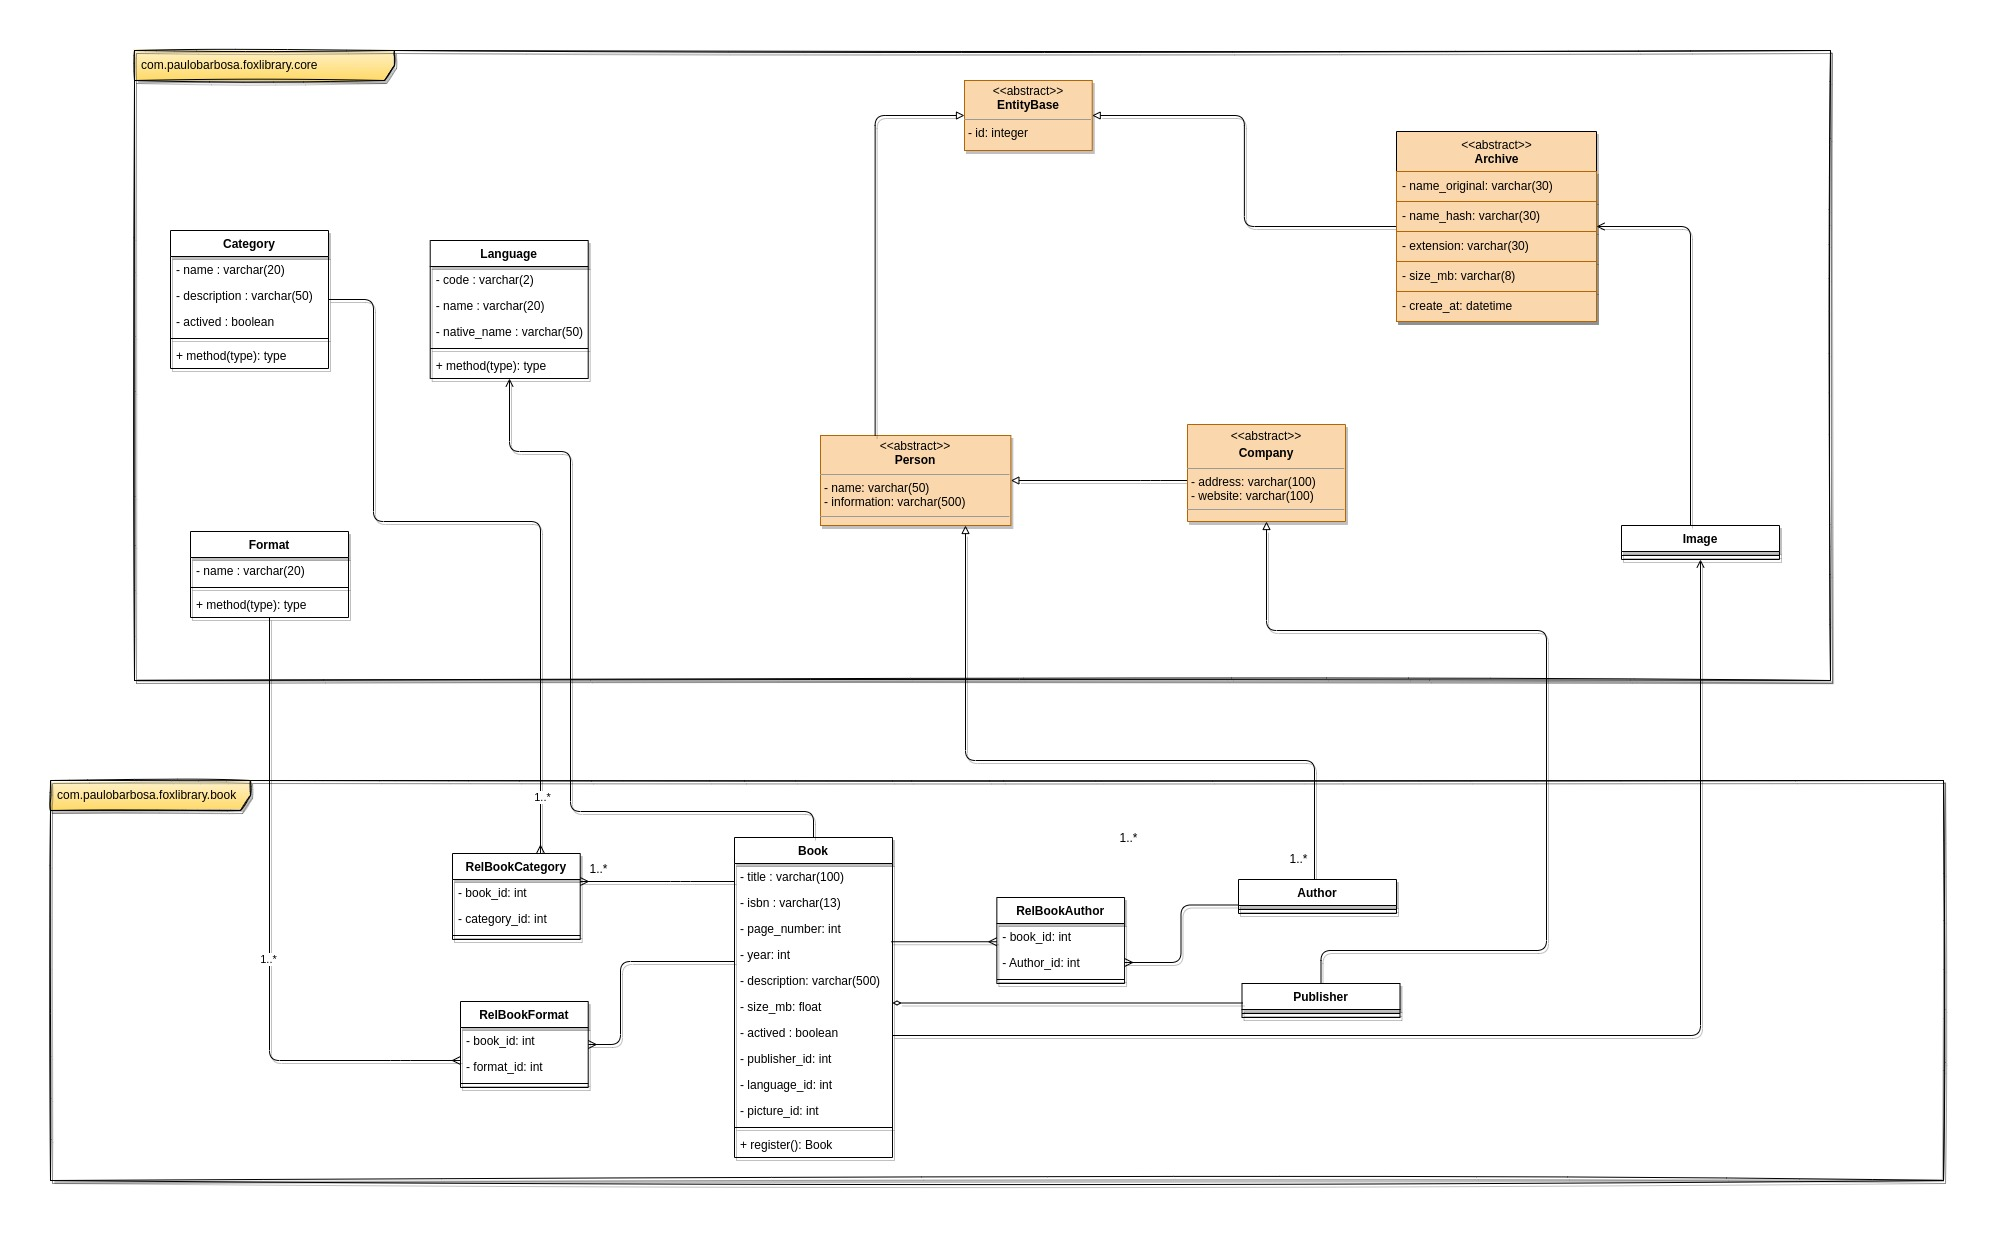
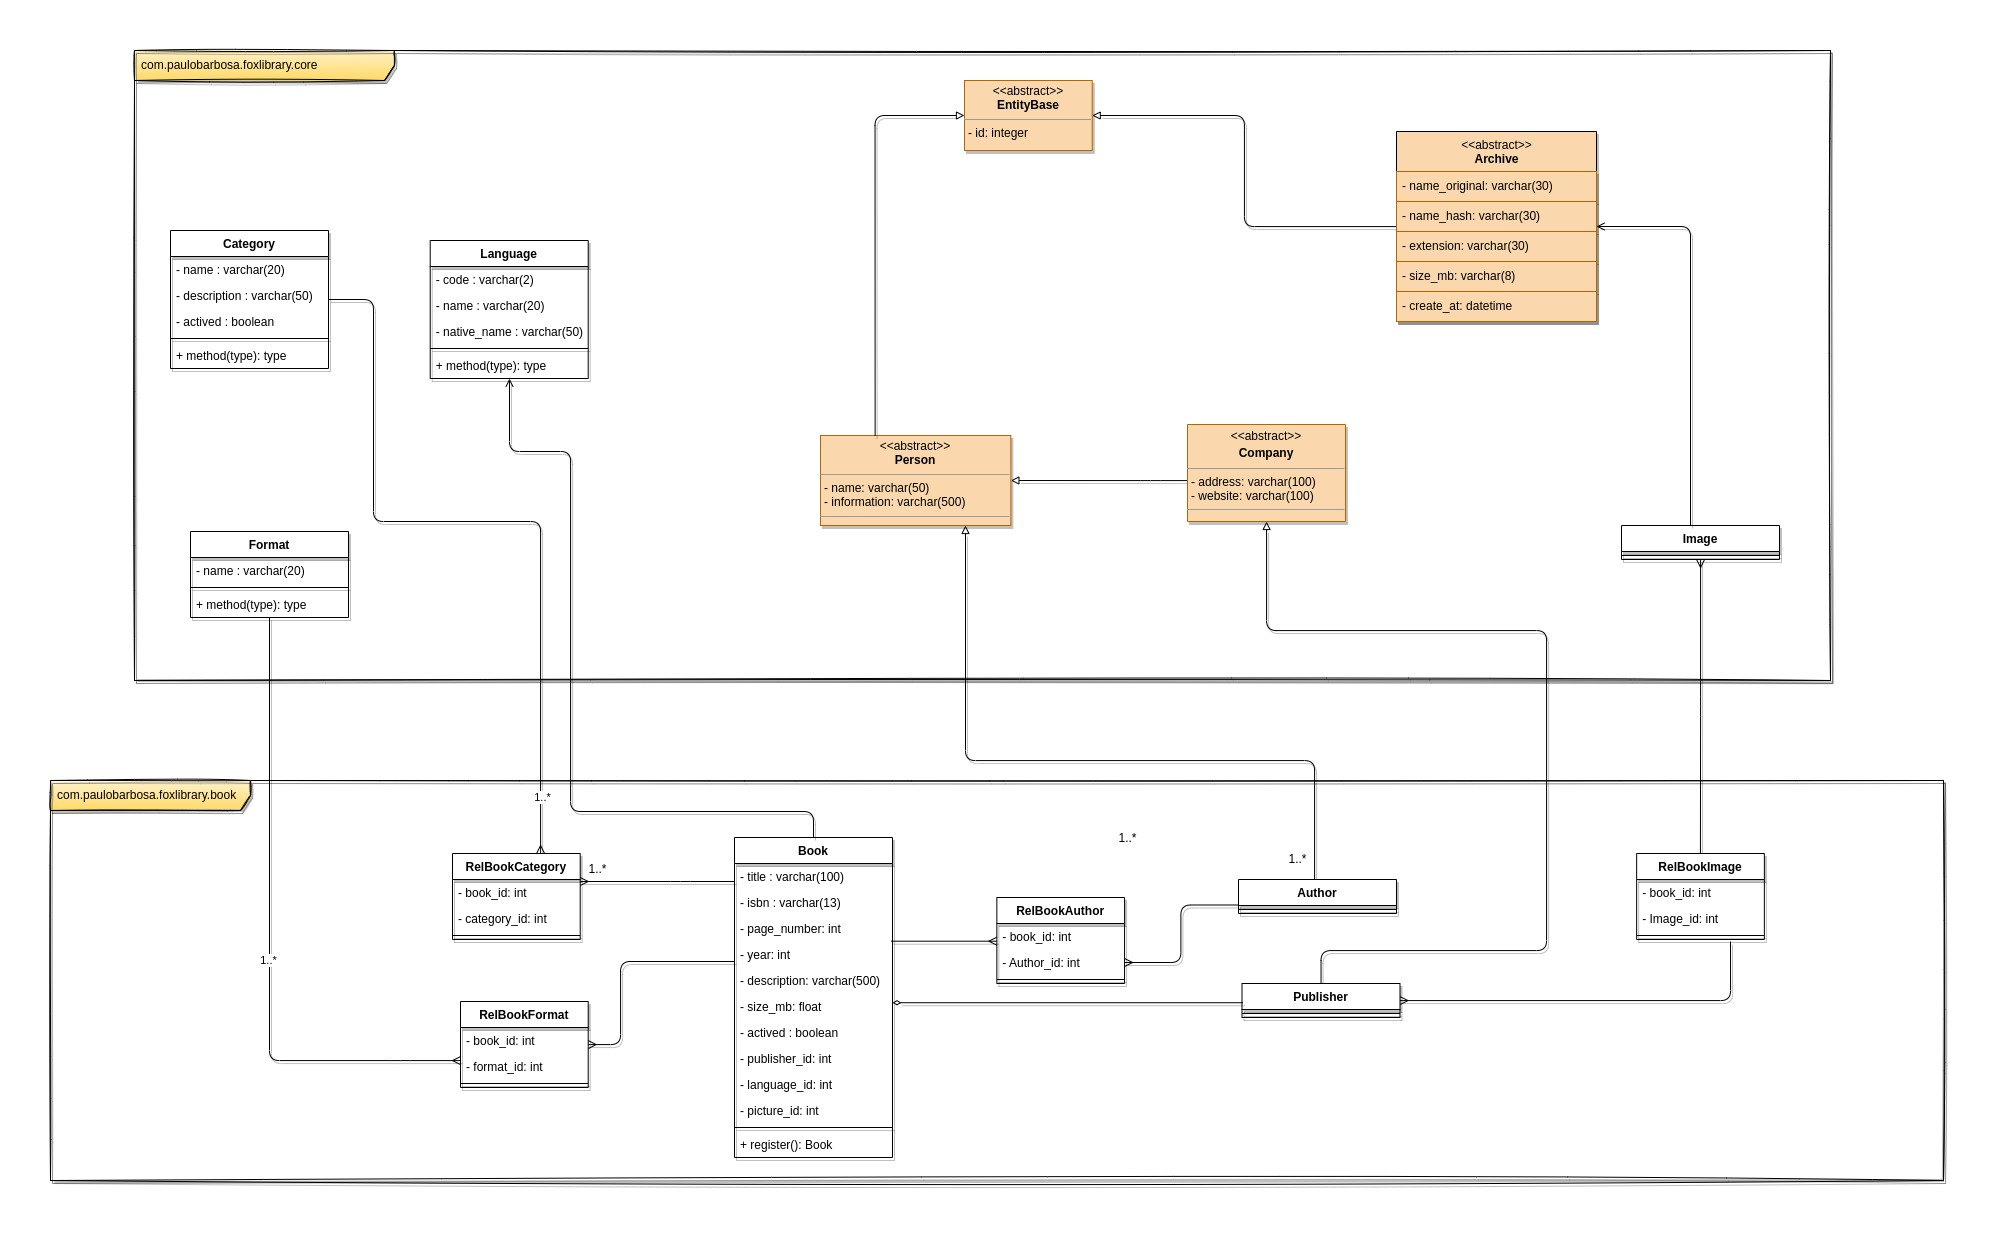
refactoring some tables

diff --git a/backend/src/main/java/com/paulobarbosa/foxlibrary/book/model/Book.java b/backend/src/main/java/com/paulobarbosa/foxlibrary/book/model/Book.java
@@ -8,6 +8,7 @@ import javax.persistence.*;
 import javax.validation.constraints.NotEmpty;
 import javax.validation.constraints.Size;
 import java.util.List;
+import java.util.Objects;
 
 @Entity
 @Getter
@@ -49,10 +50,8 @@ public class Book extends EntityBase {
     @JoinColumn(name = "language_id", referencedColumnName = "id", nullable = false, foreignKey = @ForeignKey(name = "fk_language"))
     private Language language;
 
-    @ManyToOne
-    @JoinColumn(name = "image_id",  referencedColumnName = "id", nullable = false, foreignKey = @ForeignKey(name = "fk_image"))
-    private Image image;
-
+     @OneToMany(mappedBy="book")
+     List<RelBookImage> images;
 
     @ManyToMany
     @JoinTable(
@@ -80,5 +79,15 @@ public class Book extends EntityBase {
     @ToString.Exclude
     private List<Category> categories;
 
+    @Override
+    public boolean equals(Object o) {
+        if (this == o) return true;
+        if (!(o instanceof Book book)) return false;
+        return Objects.equals(title, book.title) && Objects.equals(isbn, book.isbn) && Objects.equals(pageNumber, book.pageNumber) && Objects.equals(description, book.description) && Objects.equals(sizeMb, book.sizeMb) && Objects.equals(active, book.active) && Objects.equals(publisher, book.publisher) && Objects.equals(language, book.language) && Objects.equals(images, book.images) && Objects.equals(authors, book.authors) && Objects.equals(formats, book.formats) && Objects.equals(categories, book.categories);
+    }
 
+    @Override
+    public int hashCode() {
+        return getClass().hashCode();
+    }
 }

diff --git a/backend/src/main/java/com/paulobarbosa/foxlibrary/book/model/RelBookImage.java b/backend/src/main/java/com/paulobarbosa/foxlibrary/book/model/RelBookImage.java
@@ -1,0 +1,45 @@
+package com.paulobarbosa.foxlibrary.book.model;
+
+import com.paulobarbosa.foxlibrary.book.model.compositekey.BookImageKey;
+import com.paulobarbosa.foxlibrary.shared.model.Image;
+import lombok.*;
+
+import javax.persistence.*;
+import java.util.Objects;
+
+@Entity
+@Getter
+@Setter
+@Builder
+@ToString
+@AllArgsConstructor
+@NoArgsConstructor
+@Table(name = "rel_books_images")
+public class RelBookImage {
+    @EmbeddedId
+    BookImageKey id;
+    @MapsId("bookId")
+    @ManyToOne
+    @JoinColumn(name = "book_id")
+    private Book book;
+
+    @MapsId("imageId")
+    @ManyToOne
+    @JoinColumn(name = "image_id")
+    private Image image;
+
+    @Column(name = "is_principal", columnDefinition = "boolean default false")
+    private Boolean isPrincipal = false;
+
+    @Override
+    public boolean equals(Object o) {
+        if (this == o) return true;
+        if (!(o instanceof RelBookImage that)) return false;
+        return Objects.equals(id, that.id) && Objects.equals(book, that.book) && Objects.equals(image, that.image) && Objects.equals(isPrincipal, that.isPrincipal);
+    }
+
+  @Override
+    public int hashCode() {
+        return getClass().hashCode();
+    }
+}

diff --git a/backend/src/main/java/com/paulobarbosa/foxlibrary/book/model/compositekey/BookImageKey.java b/backend/src/main/java/com/paulobarbosa/foxlibrary/book/model/compositekey/BookImageKey.java
@@ -1,0 +1,26 @@
+package com.paulobarbosa.foxlibrary.book.model.compositekey;
+
+import javax.persistence.Column;
+import javax.persistence.Embeddable;
+import java.io.Serializable;
+import java.util.Objects;
+
+@Embeddable
+public class BookImageKey implements Serializable {
+    @Column(name = "book_id")
+   private Long bookId;
+    @Column(name = "image_id")
+    private Long imageId;
+
+    @Override
+    public boolean equals(Object o) {
+        if (this == o) return true;
+        if (!(o instanceof BookImageKey that)) return false;
+        return Objects.equals(bookId, that.bookId) && Objects.equals(imageId, that.imageId);
+    }
+
+    @Override
+    public int hashCode() {
+        return Objects.hash(bookId, imageId);
+    }
+}

diff --git a/backend/src/main/java/com/paulobarbosa/foxlibrary/book/model/Publisher.java b/backend/src/main/java/com/paulobarbosa/foxlibrary/book/model/Publisher.java
@@ -7,6 +7,7 @@ import javax.persistence.Entity;
 import javax.persistence.OneToMany;
 import javax.persistence.Table;
 import java.util.List;
+import java.util.Objects;
 
 
 @Entity
@@ -21,4 +22,17 @@ public class Publisher extends Company {
     @OneToMany(mappedBy = "publisher")
     @ToString.Exclude
     private List<Book> books;
+
+    @Override
+    public boolean equals(Object o) {
+        if (this == o) return true;
+        if (!(o instanceof Publisher publisher)) return false;
+        if (!super.equals(o)) return false;
+        return Objects.equals(books, publisher.books);
+    }
+
+    @Override
+    public int hashCode() {
+        return getClass().hashCode();
+    }
 }

diff --git a/backend/src/main/java/com/paulobarbosa/foxlibrary/shared/model/Image.java b/backend/src/main/java/com/paulobarbosa/foxlibrary/shared/model/Image.java
@@ -1,12 +1,9 @@
 package com.paulobarbosa.foxlibrary.shared.model;
 
-import com.paulobarbosa.foxlibrary.book.model.Book;
 import lombok.*;
 
 import javax.persistence.Entity;
-import javax.persistence.OneToMany;
 import javax.persistence.Table;
-import java.util.List;
 
 @Entity
 @Getter
@@ -14,11 +11,6 @@ import java.util.List;
 @Builder
 @ToString
 @AllArgsConstructor
-@NoArgsConstructor
 @Table(name = "images")
 public class Image extends Archive {
-
-    @OneToMany(mappedBy = "image")
-    @ToString.Exclude
-    private List<Book> books;
 }
